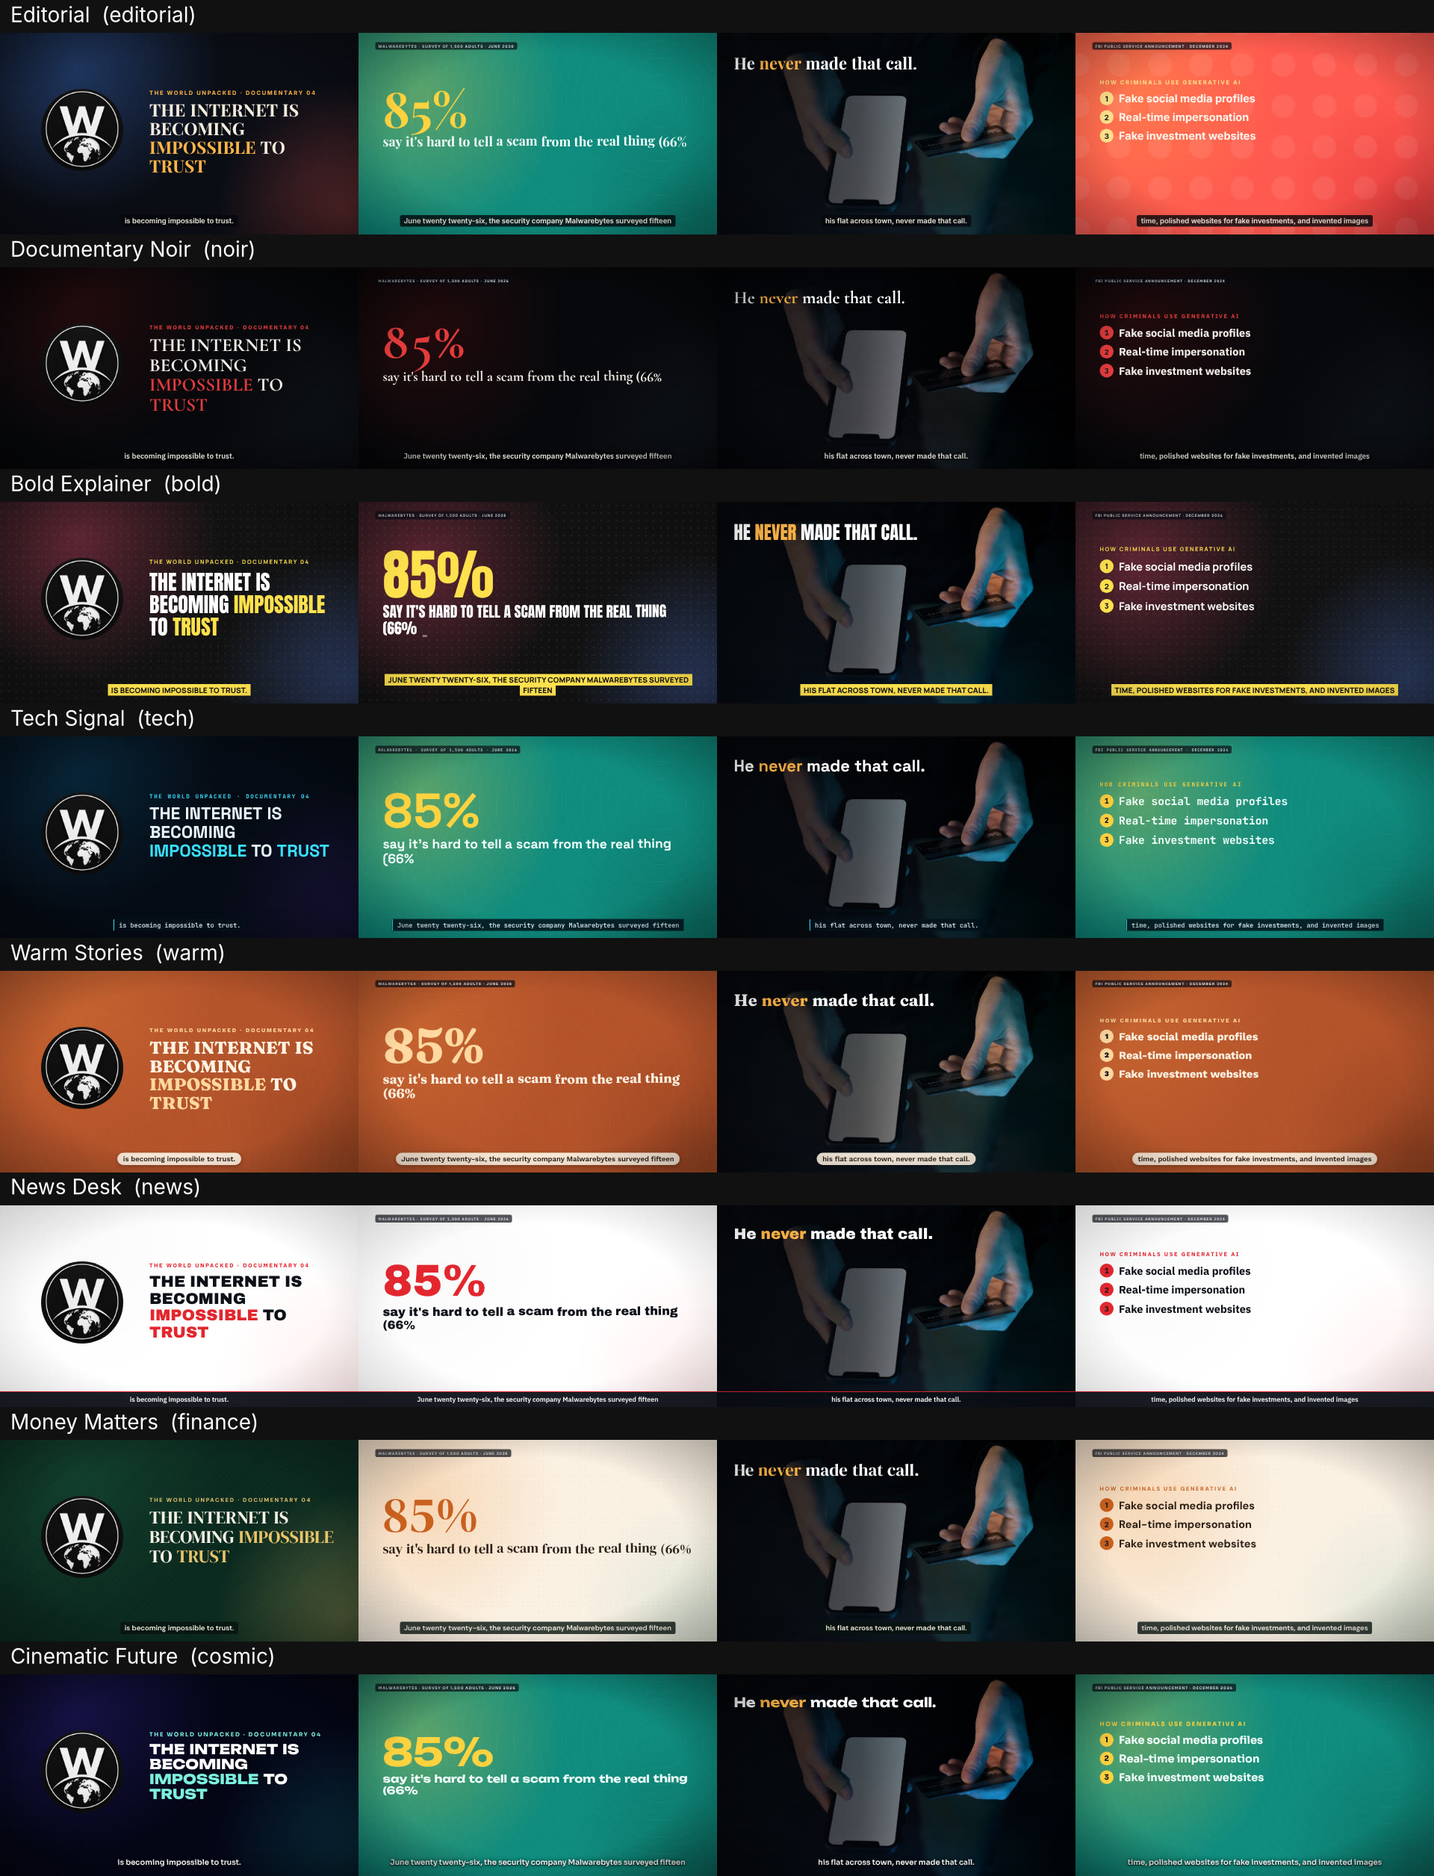
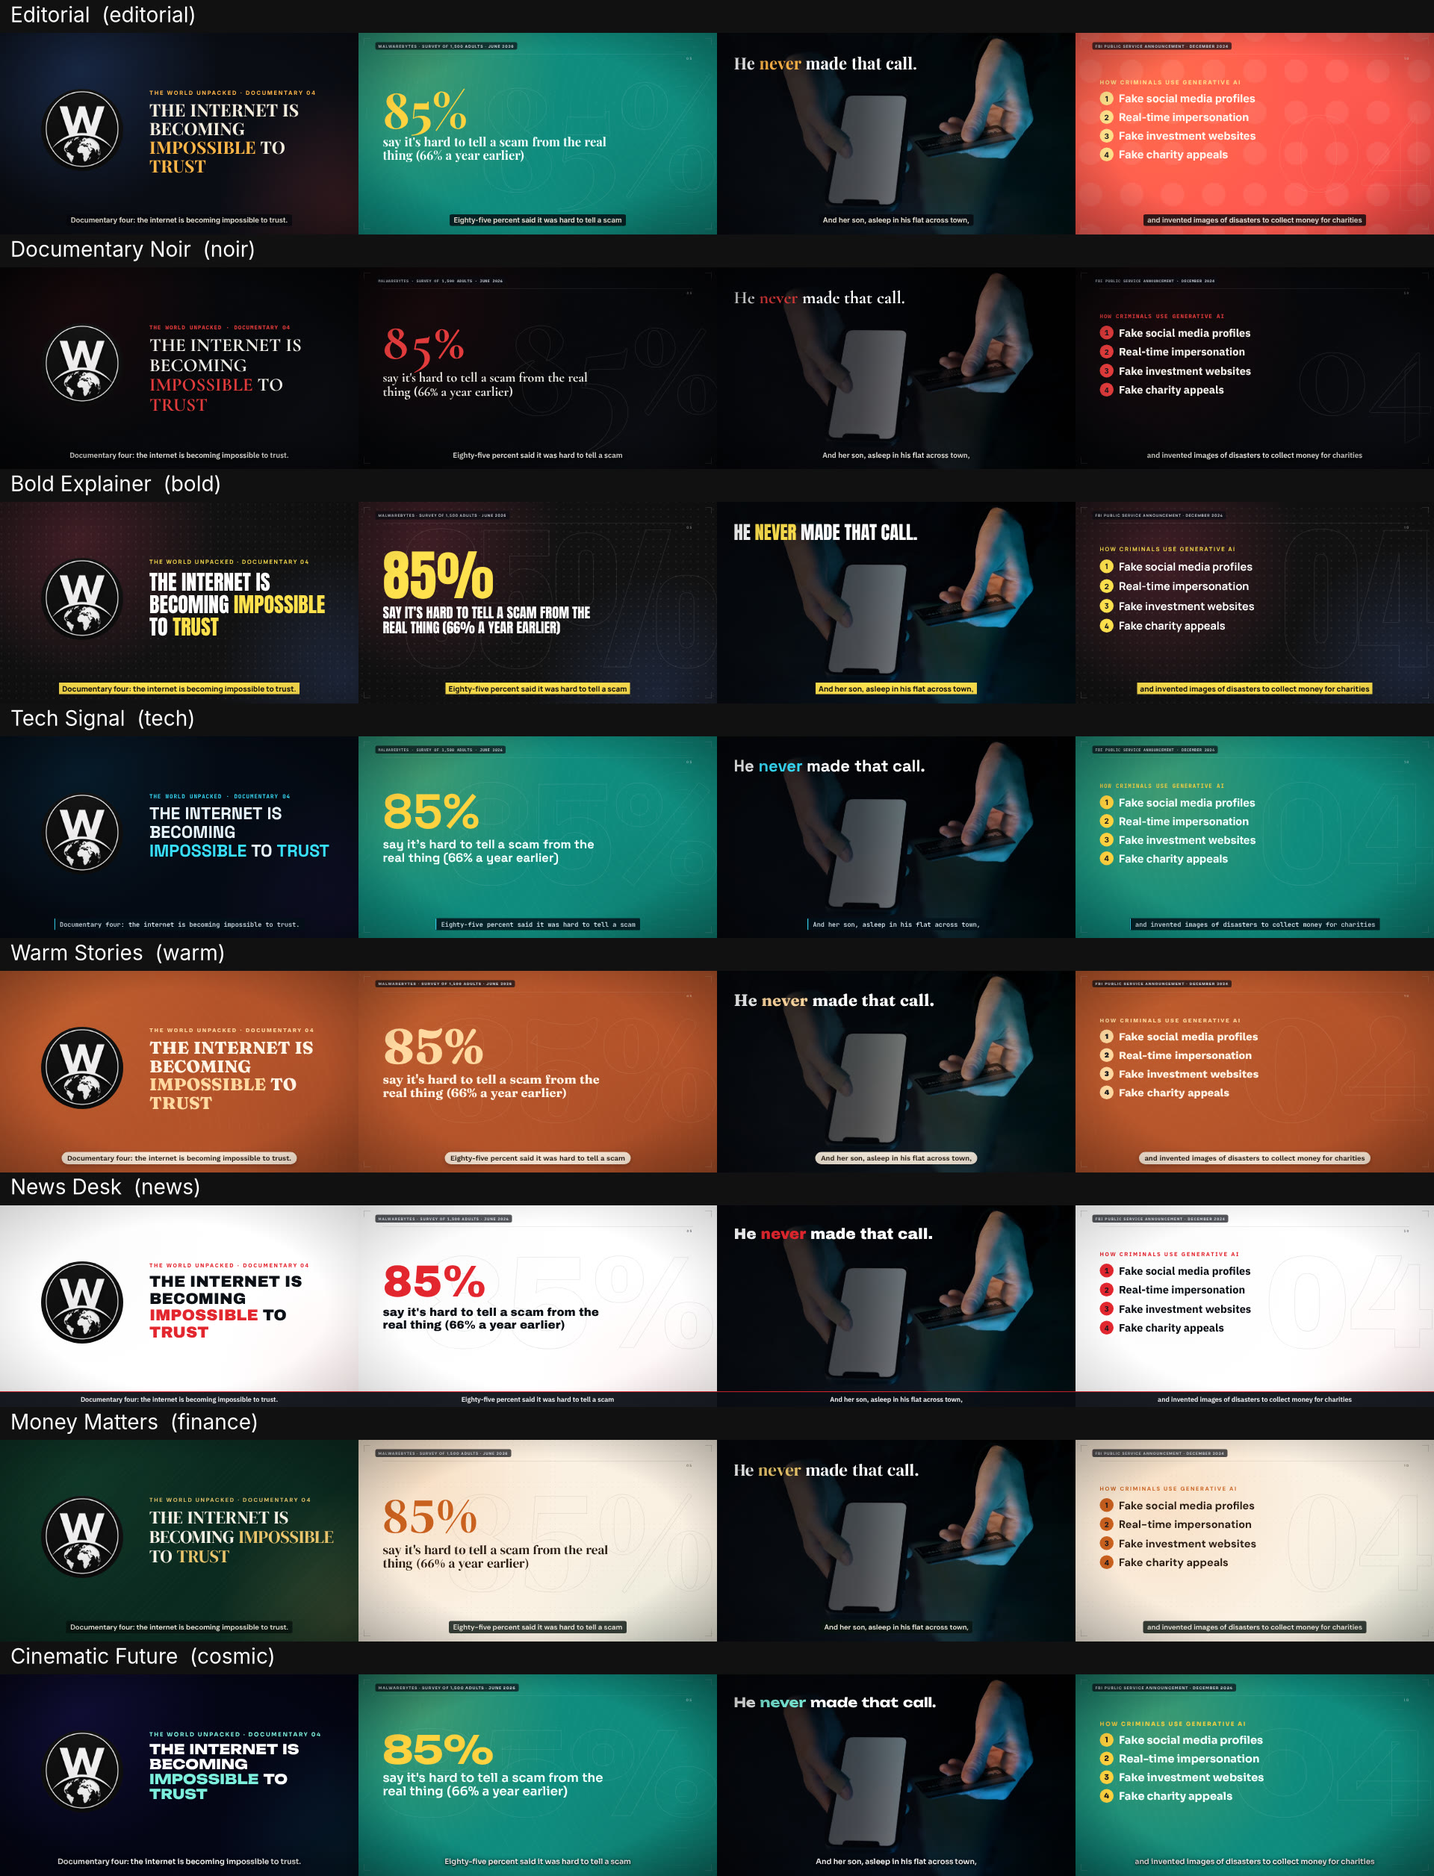
Polish pass: sentence-aware captions, editorial frame chrome, chart layout, per-style mono faces
Claude-Session: https://claude.ai/code/session_01KXEdrmoBzZnWED9nBn9uJr

diff --git a/video/src/Film.tsx b/video/src/Film.tsx
@@ -3,7 +3,7 @@ import { AbsoluteFill, Easing, Img, OffthreadVideo, Sequence, interpolate, stati
 import { F, DS } from "./theme";
 import { STYLE } from "./styles";
 import { THEMES, ThemeCtx, Theme } from "./themes";
-import { Bg, Logo, KText, Tag, clamp, useSpr, IO, mix } from "./motion";
+import { Bg, Logo, KText, Tag, clamp, useSpr, IO, mix, Deco } from "./motion";
 import { OverlayView, Overlay } from "./Overlays";
 import { SubMid, EndCard } from "./Subscribe";
 import spec from "./spec.json";
@@ -36,9 +36,22 @@ const Footage: React.FC<{ s: Shot; dur: number; i: number }> = ({ s, dur, i }) =
   );
 };
 
+const ghostOf = (o?: Overlay): string | undefined => {
+  if (!o) return undefined;
+  const n = (v: number, p = "", x = "") => `${p}${v >= 10000 ? Math.round(v / 1000) + "K" : v}${x}`;
+  switch (o.type) {
+    case "stat": return n(o.value, o.prefix, o.suffix);
+    case "compare": case "bars": return undefined; // full-width layouts: a ghost would fight the data
+    case "list": return String(o.items.length).padStart(2, "0");
+    case "quote": return "\u201C";
+    case "kinetic": return (o.hl?.[0] ?? o.text.split(" ")[0]).toUpperCase();
+    default: return undefined;
+  }
+};
+
 const Graphic: React.FC<{ s: Shot; dur: number; i: number }> = ({ s, dur, i }) => (
   <ThemeCtx.Provider value={lookOf(s, i)}>
-    <AbsoluteFill><Bg seed={i} />{s.overlay ? <OverlayView o={s.overlay} dur={dur} onFootage={false} /> : null}</AbsoluteFill>
+    <AbsoluteFill><Bg seed={i} /><Deco ghost={ghostOf(s.overlay)} dur={dur} seed={i} />{s.overlay ? <OverlayView o={s.overlay} dur={dur} onFootage={false} /> : null}</AbsoluteFill>
   </ThemeCtx.Provider>
 );
 
@@ -60,26 +73,48 @@ const Intro: React.FC<{ s: Shot; dur: number }> = ({ s, dur }) => {
 };
 
 const capCss = (): React.CSSProperties => {
-  const base: React.CSSProperties = { fontFamily: F.sans, fontWeight: 600, fontSize: 38, lineHeight: 1.35, color: STYLE.captionFg };
+  const base: React.CSSProperties = { fontFamily: STYLE.name === "tech" ? F.mono : F.sans, fontWeight: 600, fontSize: 38, lineHeight: 1.35, color: STYLE.captionFg };
   switch (STYLE.caption) {
     case "shadow": return { ...base, fontWeight: 600, fontSize: 40, textShadow: "0 2px 6px #000, 0 0 22px #000C" };
-    case "highlight": return { ...base, fontWeight: 800, fontSize: 40, background: STYLE.captionBg, padding: "4px 18px", boxDecorationBreak: "clone", WebkitBoxDecorationBreak: "clone", textTransform: "uppercase", letterSpacing: "0.01em" };
+    case "highlight": return { ...base, fontWeight: 800, fontSize: 40, background: STYLE.captionBg, padding: "4px 16px", boxDecorationBreak: "clone", WebkitBoxDecorationBreak: "clone", lineHeight: 1.5 };
     case "pill": return { ...base, fontWeight: 600, background: STYLE.captionBg, padding: "10px 30px", borderRadius: 999, boxShadow: "0 8px 24px #0004" };
     case "edge": return { ...base, fontWeight: 500, fontSize: 34, background: STYLE.captionBg, padding: "10px 24px", borderLeft: `6px solid ${STYLE.accent}`, borderRadius: 4 };
-    case "bar": return { ...base, display: "block", background: STYLE.captionBg, borderTop: `5px solid ${STYLE.accent}`, padding: "14px 160px 18px", fontSize: 36 };
+    case "bar": return { ...base, background: STYLE.captionBg, borderTop: `5px solid ${STYLE.accent}`, padding: "14px 160px 18px", fontSize: 36 };
     default: return { ...base, background: STYLE.captionBg, padding: "8px 22px", borderRadius: 10 };
   }
 };
 
+/** Split narration into readable caption chunks: break on sentence/clause ends, ~4–9 words, never a 1–2 word orphan. */
+export const chunkText = (text: string): string[] => {
+  const words = text.split(/\s+/).filter(Boolean);
+  const out: string[][] = []; let cur: string[] = [];
+  words.forEach((w, i) => {
+    cur.push(w);
+    const end = /[.!?]$/.test(w), clause = /[,;:—]$/.test(w);
+    const left = words.length - i - 1;
+    const weak = /^(a|an|the|to|of|and|or|in|on|for|with|at|by|from|that|their|his|her|its|is|was|it)$/i.test(w.replace(/[^\w]/g, ""));
+    if ((end && cur.length >= 3) || (clause && cur.length >= 5) || (cur.length >= 9 && !weak) || cur.length >= 12) {
+      if (left > 0 && left <= 2) return; // keep the tail with this chunk
+      out.push(cur); cur = [];
+    }
+  });
+  if (cur.length) { if (cur.length <= 2 && out.length) out[out.length - 1].push(...cur); else out.push(cur); }
+  return out.map((c) => c.join(" "));
+};
+
 const Caption: React.FC<{ text: string; dur: number }> = ({ text, dur }) => {
   const f = useCurrentFrame();
-  const w = text.split(" "); const per = 9; const chunks: string[] = [];
-  for (let i = 0; i < w.length; i += per) chunks.push(w.slice(i, i + per).join(" "));
-  const idx = Math.min(chunks.length - 1, Math.floor((f / Math.max(1, dur - 14)) * chunks.length));
-  const fade = clamp(f / 8) * (1 - clamp((f - (dur - 8)) / 8));
+  const chunks = React.useMemo(() => chunkText(text), [text]);
+  const weights = chunks.map((c) => c.length + 12);
+  const total = weights.reduce((a, b) => a + b, 0);
+  const speak = Math.max(1, dur - 18); // vo ends ~0.6s before the shot does
+  let acc = 0, idx = chunks.length - 1, local = 0;
+  for (let i = 0; i < chunks.length; i++) { const len = (weights[i] / total) * speak; if (f < acc + len) { idx = i; local = f - acc; break; } acc += len; }
+  const fade = clamp(f / 6) * (1 - clamp((f - (dur - 6)) / 6));
+  const pop = idx === 0 ? 1 : clamp(local / 4);
   return (
-    <div style={{ position: "absolute", left: STYLE.caption === "bar" ? 0 : 140, right: STYLE.caption === "bar" ? 0 : 140, bottom: STYLE.caption === "bar" ? 0 : 46, textAlign: "center", opacity: fade }}>
-      <span style={capCss()}>{chunks[idx]}</span>
+    <div style={{ position: "absolute", left: STYLE.caption === "bar" ? 0 : 160, right: STYLE.caption === "bar" ? 0 : 160, bottom: STYLE.caption === "bar" ? 0 : 50, textAlign: "center", opacity: fade }}>
+      <span style={{ ...capCss(), display: STYLE.caption === "bar" ? "block" : "inline", opacity: 0.4 + 0.6 * pop }}>{chunks[idx]}</span>
     </div>
   );
 };
@@ -96,7 +131,7 @@ const ActTag: React.FC<{ label: string; title: string }> = ({ label, title }) =>
 };
 
 const SourceTag: React.FC<{ text: string }> = ({ text }) => (
-  <div style={{ position: "absolute", left: 90, top: 50, background: "#0A0D14B3", padding: "8px 16px", borderRadius: 10, fontFamily: F.sans, fontWeight: 700, fontSize: 20, letterSpacing: "0.16em", textTransform: "uppercase", color: "#D5DCE6" }}>{text}</div>
+  <div style={{ position: "absolute", left: 90, top: 50, background: "#0A0D14B3", padding: "8px 16px", borderRadius: 10, fontFamily: F.mono, fontWeight: 700, fontSize: 20, letterSpacing: STYLE.mono ? "0.08em" : "0.16em", textTransform: "uppercase", color: "#D5DCE6" }}>{text}</div>
 );
 
 const VAR: string[] = STYLE.trans;

diff --git a/video/src/motion.tsx b/video/src/motion.tsx
@@ -37,8 +37,8 @@ export const Bg: React.FC<{ a?: string; b?: string; seed?: number }> = ({ seed =
   const f = useCurrentFrame(); const T = useTh();
   return (
     <AbsoluteFill style={{ background: T.bg, overflow: "hidden" }}>
-      <div style={{ position: "absolute", width: 1800, height: 1800, background: `radial-gradient(circle at 50% 50%, ${T.blobA} 0%, transparent 60%)`, opacity: T.dark ? 0.32 : 0.45, left: -550 + Math.sin(f / 90 + seed) * 120, top: -650 + Math.cos(f / 110 + seed) * 90 }} />
-      <div style={{ position: "absolute", width: 1600, height: 1600, background: `radial-gradient(circle at 50% 50%, ${T.blobB} 0%, transparent 60%)`, opacity: T.dark ? 0.3 : 0.4, right: -600 + Math.cos(f / 100 + seed * 2) * 120, bottom: -700 + Math.sin(f / 80 + seed) * 100 }} />
+      <div style={{ position: "absolute", width: 1800, height: 1800, background: `radial-gradient(circle at 50% 50%, ${T.blobA} 0%, transparent 60%)`, opacity: T.dark ? 0.2 : 0.3, left: -550 + Math.sin(f / 90 + seed) * 120, top: -650 + Math.cos(f / 110 + seed) * 90 }} />
+      <div style={{ position: "absolute", width: 1600, height: 1600, background: `radial-gradient(circle at 50% 50%, ${T.blobB} 0%, transparent 60%)`, opacity: T.dark ? 0.18 : 0.26, right: -600 + Math.cos(f / 100 + seed * 2) * 120, bottom: -700 + Math.sin(f / 80 + seed) * 100 }} />
       <AbsoluteFill style={{ backgroundImage: T.pattern, backgroundSize: T.patSize, backgroundPosition: `${(f * 0.4) % 400}px ${(f * 0.2) % 400}px` }} />
     </AbsoluteFill>
   );
@@ -64,7 +64,7 @@ export const KText: React.FC<{ words: string | [string, string?][]; size?: numbe
 
 export const Tag: React.FC<{ children: React.ReactNode; at?: number; color?: string; size?: number }> = ({ children, at = 0, color, size = 30 }) => {
   const s = useSpr(at); const T = useTh();
-  return <div style={{ fontFamily: F.sans, fontWeight: 700, fontSize: size, letterSpacing: "0.22em", textTransform: "uppercase", color: color ?? T.amber, opacity: s, transform: `translateX(${(1 - s) * -40}px)` }}>{children}</div>;
+  return <div style={{ fontFamily: F.mono, fontWeight: 700, fontSize: size, letterSpacing: STYLE.mono ? "0.12em" : "0.22em", textTransform: "uppercase", color: color ?? T.amber, opacity: s, transform: `translateX(${(1 - s) * -40}px)` }}>{children}</div>;
 };
 
 export const Count: React.FC<{ to: number; from?: number; at?: number; d?: number; dec?: number; pre?: string; suf?: string; size?: number; color?: string; sep?: boolean; weight?: number }> = ({ to, from = 0, at = 0, d = 40, dec = 0, pre = "", suf = "", size = 200, color, sep = true, weight = 700 }) => {
@@ -97,7 +97,7 @@ export const BarRow: React.FC<{ x: number; y: number; w: number; h?: number; v: 
       <div style={{ flex: 1, height: h, background: T.panel, borderRadius: h / 2, position: "relative", overflow: "hidden" }}>
         <div style={{ width: `${v * t * 100}%`, height: "100%", background: color, borderRadius: h / 2 }} />
       </div>
-      <div style={{ width: 150, fontFamily: F.serif, fontWeight: 700, fontSize: 56, color }}>{val}</div>
+      <div style={{ minWidth: 230, textAlign: "right", whiteSpace: "nowrap", fontFamily: F.serif, fontWeight: 700, fontSize: 56 * DS, color, fontVariantNumeric: "tabular-nums" }}>{val}</div>
     </div>
   );
 };
@@ -179,3 +179,25 @@ export const Particles: React.FC<{ n?: number; color?: string }> = ({ n = 40, co
 export const Logo: React.FC<{ size: number; style?: React.CSSProperties }> = ({ size, style }) => (
   <Img src={staticFile("logo.png")} style={{ width: size, height: size, borderRadius: size / 2, ...style }} />
 );
+
+
+/** Editorial chrome for graphic scenes: corner registration marks, a giant outlined "ghost" of the key figure drifting on the right, and a hairline that draws in. Fills dead space the way a designed broadcast frame does. */
+export const Deco: React.FC<{ ghost?: string; dur: number; seed?: number }> = ({ ghost, dur, seed = 0 }) => {
+  const f = useCurrentFrame(); const T = useTh();
+  const t = clamp(f / dur);
+  const s = useSpr(4, { damping: 20, stiffness: 80 });
+  const line = T.dark ? "#FFFFFF" : "#000000";
+  const mark = (x: number, y: number, sx: number, sy: number) => (
+    <div style={{ position: "absolute", left: x, top: y, width: 34, height: 34, borderLeft: sx > 0 ? `2px solid ${line}` : undefined, borderRight: sx < 0 ? `2px solid ${line}` : undefined, borderTop: sy > 0 ? `2px solid ${line}` : undefined, borderBottom: sy < 0 ? `2px solid ${line}` : undefined, opacity: 0.28 * s, transform: `translate(${(1 - s) * -sx * 18}px, ${(1 - s) * -sy * 18}px)` }} />
+  );
+  const g = ghost ? ghost.slice(0, 8) : "";
+  const gSize = g.length <= 3 ? 760 : g.length <= 5 ? 560 : 400;
+  return (
+    <AbsoluteFill style={{ pointerEvents: "none", overflow: "hidden" }}>
+      {g ? <div style={{ position: "absolute", right: -60 + mix(0, 70, IO(t)), top: "50%", transform: `translateY(-52%) scale(${0.96 + 0.04 * s})`, fontFamily: F.serif, fontWeight: 800, fontSize: gSize * DS, lineHeight: 0.9, color: "transparent", WebkitTextStroke: `3px ${T.fg}`, opacity: 0.1 * s, whiteSpace: "nowrap", letterSpacing: "-0.02em", textTransform: STYLE.displayUpper ? "uppercase" : undefined }}>{g}</div> : null}
+      {mark(28, 28, 1, 1)}{mark(1920 - 62, 28, -1, 1)}{mark(28, 1080 - 62, 1, -1)}{mark(1920 - 62, 1080 - 62, -1, -1)}
+      <div style={{ position: "absolute", left: 130, top: 112, height: 2, width: 1660 * OUT(clamp((f - 6) / 40)), background: line, opacity: 0.14 }} />
+      <div style={{ position: "absolute", right: 130, top: 124, fontFamily: F.sans, fontWeight: 600, fontSize: 18, letterSpacing: "0.3em", color: T.dim, opacity: 0.8 * clamp((f - 120) / 15) }}>{String(seed + 1).padStart(2, "0")}</div>
+    </AbsoluteFill>
+  );
+};

diff --git a/video/src/styles.ts b/video/src/styles.ts
@@ -15,6 +15,8 @@ export type Style = {
   displayScale: number;        // wide/condensed display fonts need resizing to fit layouts
   displayUpper?: boolean;      // force uppercase display text (condensed poster faces)
   displayItalicOk?: boolean;   // false → never fake an italic
+  mono?: FontDef;              // optional accent face for tags, source labels and captions
+  labelBody?: boolean;         // stat labels in body face (for very wide display faces)
   accent: string;              // act tags, intro highlights
   looks: string[];             // graphic-scene theme rotation (themes.tsx keys)
   intro: string;               // theme for intro card
@@ -59,7 +61,7 @@ export const STYLES: Record<string, Style> = {
   },
   noir: {
     name: "noir", label: "Documentary Noir", bestFor: "true crime, scams, mysteries, investigations, dark history",
-    display: FD.cormorant, body: FD.plexSans, displayScale: 1.08, displayItalicOk: true,
+    display: FD.cormorant, body: FD.plexSans, mono: FD.plexMono, displayScale: 1.08, displayItalicOk: true,
     accent: "#E23B3B", looks: ["blood", "ash", "night", "blood", "ink"], intro: "ink", endcard: "ink",
     trans: ["iris", "split", "rise"], caption: "shadow", captionFg: "#F1EEE8", captionBg: "transparent",
     grade: "saturate(0.55) contrast(1.15) brightness(0.92)", tint: "#3A0A0A", grain: 0.11, vignette: 0.6,
@@ -74,7 +76,7 @@ export const STYLES: Record<string, Style> = {
   },
   tech: {
     name: "tech", label: "Tech Signal", bestFor: "AI, tech, internet, cyber, startups, the future of work",
-    display: FD.grotesk, body: FD.jet, displayScale: 1,
+    display: FD.grotesk, body: FD.inter, mono: FD.jet, displayScale: 1,
     accent: "#38E1FF", looks: ["grid", "volt", "night", "grid", "mint"], intro: "grid", endcard: "grid",
     trans: ["rise", "bar", "split"], caption: "edge", captionFg: "#E8F7FF", captionBg: "#04121BD9",
     grade: "saturate(0.9) contrast(1.08) hue-rotate(-6deg)", tint: "#06263A", grain: 0.05, vignette: 0.35,
@@ -103,7 +105,7 @@ export const STYLES: Record<string, Style> = {
   },
   cosmic: {
     name: "cosmic", label: "Cinematic Future", bestFor: "space, science, climate, big-picture 'what happens next' films",
-    display: FD.unbounded, body: FD.sora, displayScale: 0.8,
+    display: FD.unbounded, body: FD.sora, displayScale: 0.8, labelBody: true,
     accent: "#7CF0DD", looks: ["deep", "night", "volt", "deep", "mint"], intro: "deep", endcard: "deep",
     trans: ["iris", "rise", "split"], caption: "shadow", captionFg: "#FFFFFF", captionBg: "transparent",
     grade: "contrast(1.1) saturate(1.15)", tint: "#0B1E3A", grain: 0.05, vignette: 0.45, music: "epic ambient, swelling pads",

diff --git a/video/src/Overlays.tsx b/video/src/Overlays.tsx
@@ -1,6 +1,7 @@
 import React from "react";
 import { useCurrentFrame } from "remotion";
 import { F } from "./theme";
+import { STYLE } from "./styles";
 import { useTh } from "./themes";
 import { BarRow, Count, KText, Tag, clamp, useSpr } from "./motion";
 
@@ -36,7 +37,7 @@ export const OverlayView: React.FC<{ o: Overlay; dur: number; onFootage: boolean
         <div style={box}>
           <Count to={o.value} from={o.from ?? 0} pre={o.prefix ?? ""} suf={o.suffix ?? ""} dec={o.dec ?? 0} size={onFootage ? 210 : 260} color={acc} d={Math.min(60, at(0.35))} at={6} />
           <div style={{ height: 12 }} />
-          <KText words={o.label} size={onFootage ? 60 : 70} at={at(0.18)} />
+          <KText words={o.label} size={onFootage ? 60 : 66} at={at(0.18)} maxW={1250} font={STYLE.labelBody ? "sans" : "serif"} weight={STYLE.labelBody ? 600 : 700} />
         </div>
       );
     case "compare":
@@ -57,9 +58,9 @@ export const OverlayView: React.FC<{ o: Overlay; dur: number; onFootage: boolean
       const mx = o.max ?? Math.max(...o.items.map((i) => i.value));
       const cols = [T.coral, T.amber, T.teal, T.blue, T.fg];
       return (
-        <div style={{ position: "absolute", left: 110, right: 110, top: onFootage ? 120 : 150 }}>
+        <div style={{ position: "absolute", left: 130, right: 130, top: onFootage ? 120 : Math.max(150, (1080 - (90 + o.items.length * 140)) / 2 - 30) }}>
           {o.title ? <Tag at={4} color={acc}>{o.title}</Tag> : null}
-          {o.items.map((it, i) => <BarRow key={i} x={0} y={90 + i * 140} w={1700} v={it.value / mx} label={it.label} val={it.display} color={cols[i % cols.length]} at={10 + i * 10} d={45} labW={460} h={70} />)}
+          {o.items.map((it, i) => <BarRow key={i} x={0} y={90 + i * 140} w={1700} v={it.value / mx} label={it.label} val={it.display} color={cols[i % cols.length]} at={10 + i * 10} d={45} labW={520} h={64} />)}
         </div>
       );
     }

diff --git a/video/src/theme.ts b/video/src/theme.ts
@@ -8,5 +8,6 @@ export const C = {
 export const F = {
   serif: `'${STYLE.display.family}', Georgia, serif`,
   sans: `'${STYLE.body.family}', system-ui, sans-serif`,
+  mono: STYLE.mono ? `'${STYLE.mono.family}', ui-monospace, monospace` : `'${STYLE.body.family}', system-ui, sans-serif`,
 };
 export const DS = STYLE.displayScale;

diff --git a/video/src/fonts.ts b/video/src/fonts.ts
@@ -12,4 +12,4 @@ const load = (d: FontDef) => {
   }
   return Promise.all(jobs);
 };
-export const fontsReady = Promise.all([load(STYLE.display), load(STYLE.body)]);
+export const fontsReady = Promise.all([load(STYLE.display), load(STYLE.body), ...(STYLE.mono ? [load(STYLE.mono)] : [])]);
